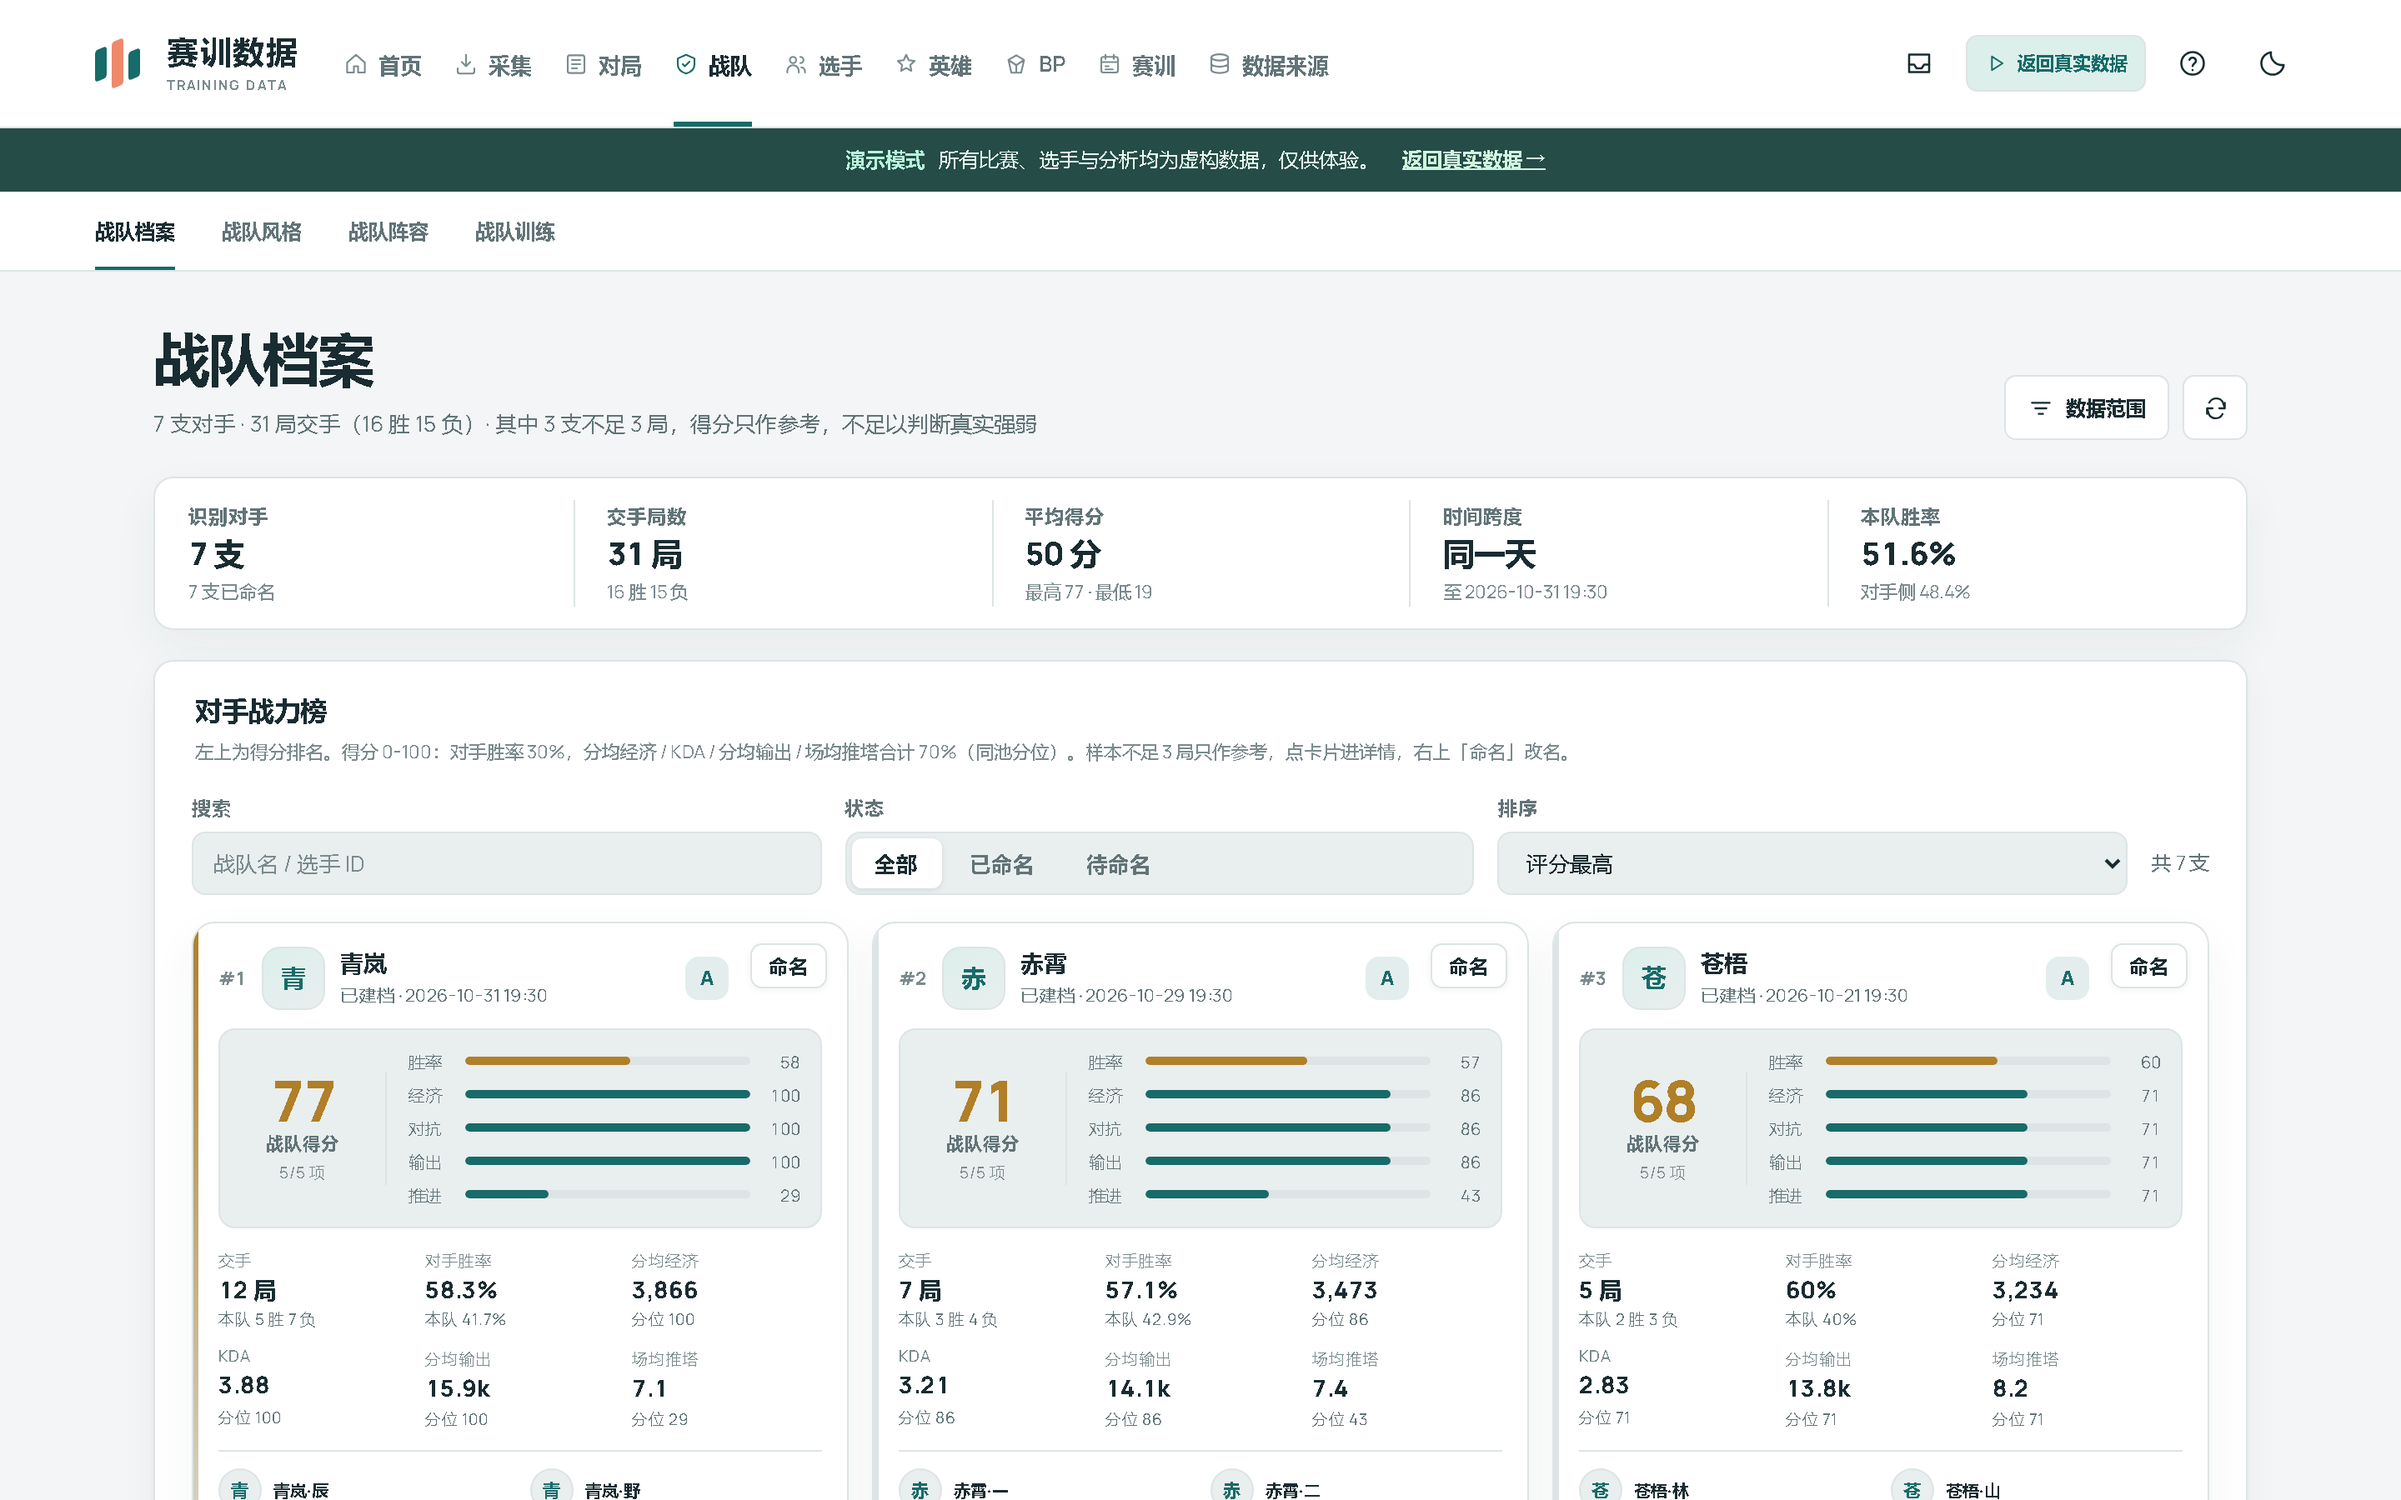
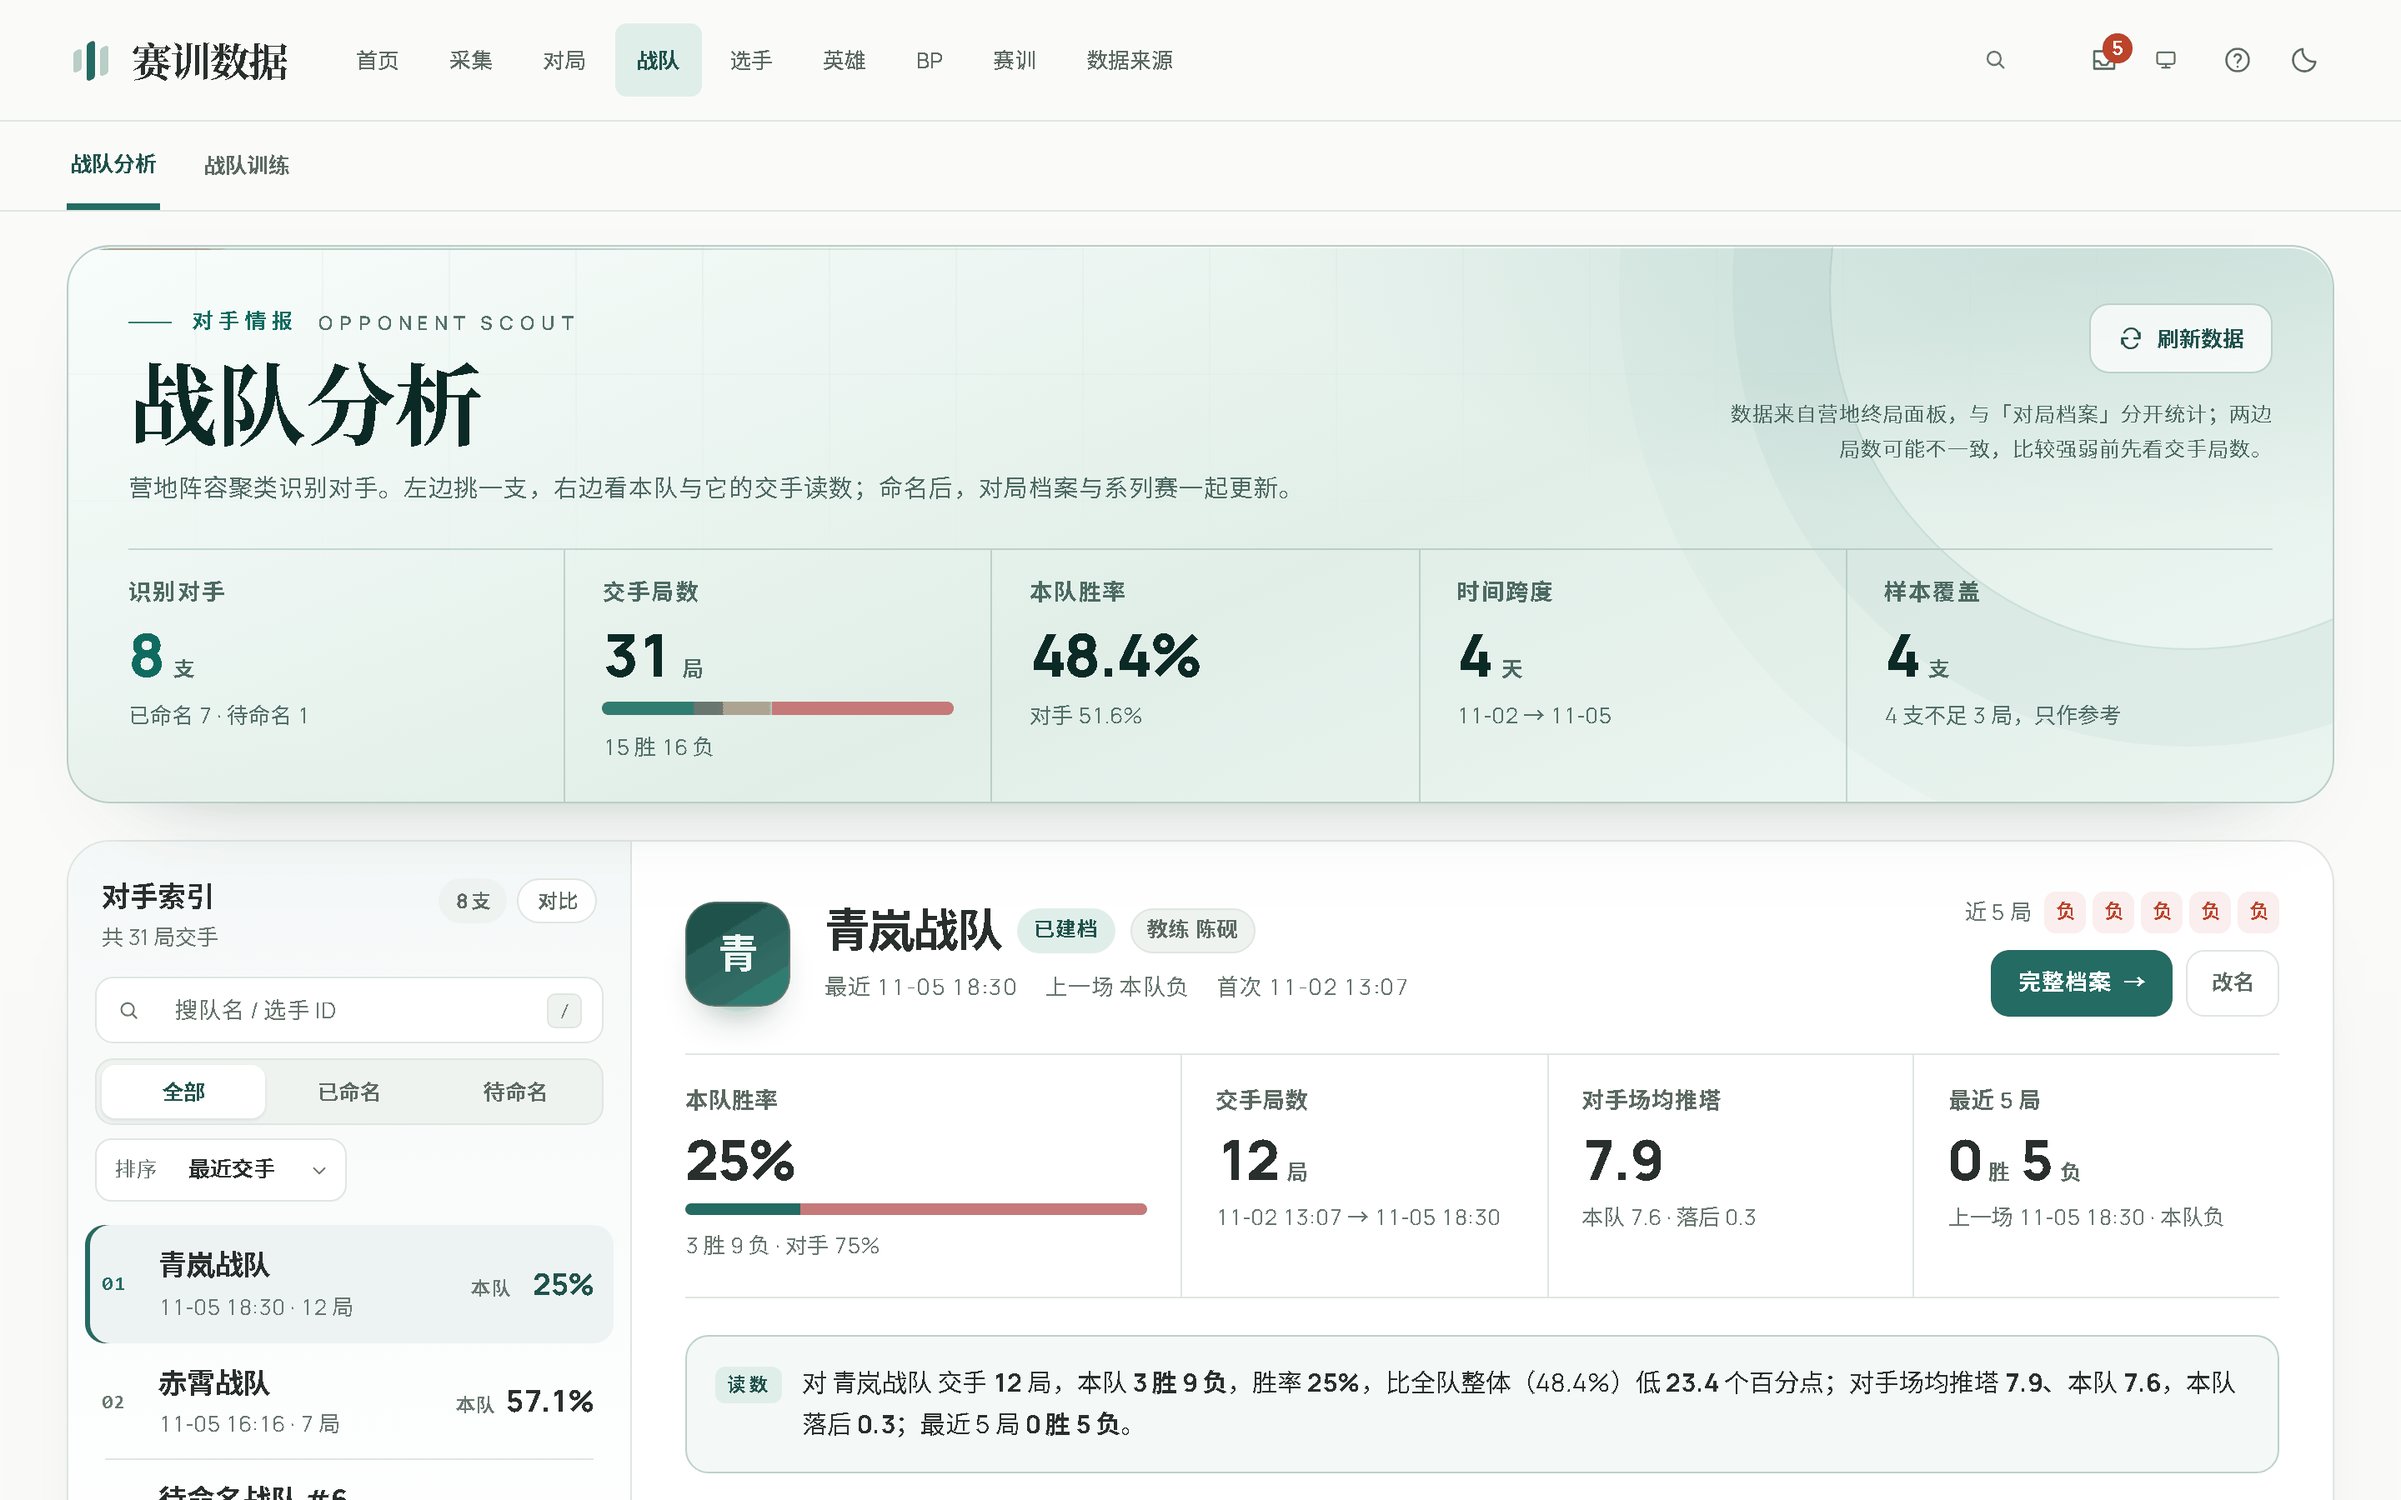
docs(readme): 按 2.0 界面重拍截图并对齐文案
- 首图换成对局档案（深色），alt / 图注同步
- 界面段：9 个一级板块、近 50 条路由；四张截图换成单局复盘 / 跨局分析 /
  战队分析 / BP 概览，图注按当前页面重写
- 功能地图：首页改赛训总览（一句话战况、8 项本期指标、周期切换）、采集五个
  页签、BP 七段工作台；首次使用步骤改用「营地同步」页签名
- capture_readme_shots.py 按 2.0 路由重写：自动关掉首次引导弹窗、新增单局复盘 /
  跨局分析、首图直接拍对局档案；跨局分析为空态时跳过，不覆盖已有好图
- build_readme_diagrams.py 不再从官网旧站图生成首图

diff --git a/scripts/build_readme_diagrams.py b/scripts/build_readme_diagrams.py
@@ -5,14 +5,16 @@
     python scripts/build_readme_diagrams.py              # 全部重建
     python scripts/build_readme_diagrams.py architecture # 只重建一张
 
-三类产物，都写到 ``docs/images/``，已随仓库入库——读者看 README 不需要任何工具：
+两类产物，都写到 ``docs/images/``，已随仓库入库——读者看 README 不需要任何工具：
 
 1. **结构图**：源码是 ``docs/diagrams/architecture.html``，用 Chromium 截
    ``.stage`` 元素（2 倍像素）。改字改色只改 HTML。
 2. **流程图**：源码是 ``docs/diagrams/*.mmd``（Mermaid），用 Chromium 加载
    mermaid 10 渲染后截图，再补圆角与描边。渲染需要联网拉一次 mermaid。
-3. **首屏截图**：把 ``website/src/assets/img/v3-hero.webp`` 做成圆角 + 投影的
-   透明 PNG，深浅主题下都不突兀。
+
+界面截图不在这里：``scripts/capture_readme_shots.py`` 直接拍运行中的工作台
+（含 README 首图 readme-hero.png），本模块只提供 ``frame_image()`` 给它套
+圆角 + 描边 + 投影。
 
 只有改了源文件才需要重跑。依赖：``pip install -r requirements-dev.txt``，
 ``python -m playwright install chromium``。
@@ -44,9 +46,10 @@ DIAGRAMS = {
 }
 
 # 截图成片：名字 → (源图, 产物名, 逻辑宽度)
-FRAMES = {
-    'hero': (SHOTS / 'v3-hero.webp', 'readme-hero.png', 1500),
-}
+# 首图 ``readme-hero.png`` 现在由 ``scripts/capture_readme_shots.py`` 直接拍
+# 工作台的对局档案（深色）再套同一套圆角/投影，不再从官网站图取，避免两边
+# 界面一改就不同步。
+FRAMES: dict[str, tuple[Path, str, int]] = {}
 
 PAGE = """<!doctype html><html><head><meta charset="utf-8">
 <style>html,body{{margin:0;background:#fff}}

diff --git a/README.md b/README.md
@@ -23,10 +23,10 @@
 </div>
 
 <p align="center">
-  <img src="docs/images/readme-hero.png" width="100%" alt="V3 工作台首屏：最近对局、对局总数、本队胜率、经济走势与英雄出场">
+  <img src="docs/images/readme-hero.png" width="100%" alt="V3 工作台 · 对局档案：43 场训练赛按训练日归档，比分、时长与阵容一眼可见">
 </p>
 
-<p align="center"><sub>V3 工作台 · 深色主题 · 界面内为合成演示数据</sub></p>
+<p align="center"><sub>V3 工作台 · 对局档案（深色主题） · 界面内为合成演示数据</sub></p>
 
 ---
 
@@ -54,9 +54,9 @@
 | :-- | :-- |
 | **单应用外壳** | 一级导航收成 首页 / 采集 / 对局 / 战队 / 选手 / 英雄 / BP / 赛训 / 数据来源；详情页统一为对局复盘、选手详情、战队详情、英雄详情，旧链接自动落到新位置，书签不失效 |
 | **采集一页** | 营地同步、截图 / 录屏 / 回放、缺失值审查并成采集页的页签；扫码授权、增量拉取、回放自动补挂、重复局清理在同一条链路里 |
-| **对局档案** | 顶部战况仪表 + 按日分组的双列对局卡；跨局分析、大场分析（BO3/5/7）、精选对局、版本对比、系列赛编组各自独立入口 |
+| **对局档案** | 顶部四块战况（当前对局 / 本队战绩 / 胜率环 / 近 10 场）+ 按训练日分组的对局卡；跨局分析、大场分析（BO3/5/7）、精选对局、版本对比、系列赛编组各自独立入口 |
 | **战队与选手** | 战队整页图形化（对手索引 + 档案 + BP / Ban 证据折叠）；选手主档（百段 / 巅峰赛分 / 千强 / 实力）与选手详情吸顶切片（范围 / 分路 / 英雄 / 对手 / 结果），整页联动并同步 URL |
-| **BP** | 新的 BP 工作台：英雄与组合数据库、对手 BP 情报、己方训练赛评估、己方英雄诊断 N01–N16、策略沙盘；训练赛统一 20 手（5+5 Ban），逐手事件接进单局复盘 |
+| **BP** | 新的 BP 工作台：英雄优先级、组合强度、战队如何破解、对手 BP 情报、类型与手序、体系与异动、赛前方案；训练赛统一 20 手（5+5 Ban），逐手事件接进单局复盘 |
 | **单局复盘** | 区块条、复制结论、热区快捷键；命中 / 联动组合按样本分级显示胜率，对位补英雄强度与 T1–T4 档位，热区补三路、河道、四个 BUFF 地标与 90 秒走位 |
 | **更新与性能** | 自动检查改为持续行为（30 分钟复查）+ 后台预下载；清单多镜像取最高版本；前端按路由加载，首屏少解析约 1.5 MB |
 | **交付** | 单入口、单端口、单实例；源码目录可生成无窗口快捷方式；安装包流水线与增量更新链路重跑通过 |
@@ -109,22 +109,22 @@
 
 ## 界面
 
-工作台按 8 个一级板块组织，共 30 余条一级 / 二级路由，按「看数据」和「录数据」分开：分析页只读，写操作集中在采集、校对、身份与工作区。
+工作台按 9 个一级板块组织（首页 + 采集 / 对局 / 战队 / 选手 / 英雄 / BP / 赛训 / 数据来源），近 50 条一级 / 二级路由，按「看数据」和「录数据」分开：分析页只读，写操作集中在采集、校对、身份与工作区。
 
 <details>
-<summary><b>展开：四张界面截图</b>（单局复盘 / 跨局分析 / 对局档案 / 精选对局，均为演示数据）</summary>
+<summary><b>展开：四张界面截图</b>（单局复盘 / 跨局分析 / 战队分析 / BP 概览，均为演示数据）</summary>
 
 <br>
 
 | 单局复盘 | 跨局分析 |
 | :-- | :-- |
 | <img src="docs/images/09-match.png" alt="单局复盘"> | <img src="docs/images/11-cross.png" alt="跨局分析"> |
-| 先给一句结论，再给证据：阶段经济差、资源与建筑、逐局金差走势。口径写在卡片底部。 | 多场 BO 一起看：概述 / 赛中 / 赛后 / 英雄和 BP 四段切换；单场 BO 从独立「大场分析」进入。 |
+| 先给一句结论，再给证据：比赛脉搏、阶段经济差、资源与建筑。口径写在卡片底部。 | 多场 BO 一起看：概述 / 赛中 / 赛后 / 英雄和 BP 四段切换；单场 BO 从独立「大场分析」进入。 |
 
-| 对局档案 | 精选对局 |
+| 战队分析 | BP 概览 |
 | :-- | :-- |
-| <img src="docs/images/03-matches.png" alt="对局档案"> | <img src="docs/images/08-depth.png" alt="精选对局"> |
-| 按日期、对手、版本、训练组筛；每行的比分、时长与阵容一眼可见。 | 精选卡：按复盘价值挑最值得回看的局（时间轴 + 理由）；下方附最短对局、最高击杀 / KDA / 分均经济的极值卡。 |
+| <img src="docs/images/05-team.png" alt="战队分析"> | <img src="docs/images/07-topics.png" alt="BP 概览"> |
+| 营地面板聚类识别对手，左边挑一支、右边看交手读数；对手打法归位在战队详情里，不再单开一页。 | 英雄优先级、组合强度、战队如何破解、对手 BP 情报、类型与手序、体系与异动、赛前方案七段，可切 KPL 赛事或自有训练赛。 |
 
 </details>
 
@@ -163,7 +163,7 @@
 </p>
 
 - **营地路径（窗口内主路径）**：教练号扫码授权后，按选手增量拉取十人面板 `battledetail`。BP、十人 KDA / 经济 / 输出 / 承伤 / 参团，以及补刀、野怪经济、治疗、控制等扩展指标直接进草稿，不经过 OCR。必须关联本局营地链接。
-- **截图 / 录屏路径（OCR 新录入）**：王者营地只保留约一个月对局详情，更早的局没有通道可挂——在截图 OCR / 录屏 OCR 页直接从一组七页截图或一段录屏报告**新建一局并录入**。七页截图齐全，或一段十人阵容完整的录屏报告，任一即可建档、审核、保存；不要求营地链接。
+- **截图 / 录屏路径（OCR 新录入）**：王者营地只保留约一个月对局详情，更早的局没有通道可挂——在截图 OCR / 录屏页直接从一组七页截图或一段录屏报告**新建一局并录入**。七页截图齐全，或一段十人阵容完整的录屏报告，任一即可建档、审核、保存；不要求营地链接。
 - **补采**是另一件事：通道已经存在（通常是营地同步建的），只是缺截图 / 录屏素材，在同一个页面把素材补到已有对局即可。表格与回放文件始终选填。
 
 两条路径汇合在同一份草稿上，审核通过后写入单局数据包 `kpl-match-data-v1`；分析页只读它，不再回头改通道。
@@ -223,13 +223,13 @@
 
 | 模块 | 入口 | 能做什么 |
 | :-- | :-- | :-- |
-| 首页 | `#overview` | 赛训周期简报：最近一局、胜负与时长、经济走势、英雄出场；右上角切换浅色 / 深色 |
-| 采集 | `#ingest` | 营地同步与增量拉取、截图 / 录屏 / 回放、缺失值审查、老局新录入，都是同页页签 |
+| 首页 | `#overview` | 赛训周期简报：一句话战况、8 项本期指标、重点发现、最值得复盘的比赛、下一场约训与数据覆盖；周期在今日 / 本周 / 本月 / 近 5 场 / 近 3 天之间切换，右上角切换浅色 / 深色 |
+| 采集 | `#ingest` | 营地同步（增量拉取）、截图 OCR、录屏、回放、对局审查五个页签；老局新录入与补采也在这一页 |
 | 对局 | `#matches` | 对局档案、跨局分析、大场分析、精选对局、版本对比、系列赛编组 |
 | 战队 | `#teams` | 战队分析（对手索引 + 档案）、战队训练 |
 | 选手 | `#players` | 选手档案、选手对比；详情页带切片条与个人主页数据 |
 | 英雄 | `#heroes` | 英雄榜、英雄对比、英雄组合 |
-| BP | `#bp` | BP 概览（英雄与组合数据库、对手 BP 情报、己方训练赛评估、己方英雄诊断、策略沙盘）、教练档案 |
+| BP | `#bp` | BP 工作台：英雄优先级、组合强度、战队如何破解、对手 BP 情报、类型与手序、体系与异动、赛前方案七段；另设教练档案 |
 | 赛训 | `#setup` | 比赛与训练、数据准备（身份对照 / 建档 / 对手归属 / 待确认）、复盘与报告 |
 | 数据来源 | `#sources` | 营地、官方回放、表格、录屏各自的库存与覆盖情况 |
 
@@ -337,12 +337,12 @@ python scripts/seed_demo_data.py   # 另一个终端：灌入 12 场合成演示
 
 ### 第一次用，按这个顺序走
 
-1. **采集 → 营地连接**：教练号扫码授权，勾选本队选手，拉取最近的对局。
+1. **采集 → 营地同步**：教练号扫码授权，勾选本队选手，拉取最近的对局。
 2. **采集 → 对局审查**：逐项核对缺失值与冲突，补 BP 手序，审核通过后保存。
 3. **对局 → 对局档案**：点开刚保存的那局，先看结论卡，再看阶段经济与掉点。
 4. **选手 / 英雄**：按位置或英雄看趋势，用「对比」把两名选手并排摆。
 
-营地拿不到的老对局（超过一个月、选手隐藏战绩等），走「截图 OCR / 录屏 OCR → 新建一局并录入」，路径同上，只是识别改在本机做、不要求营地链接。已有对局缺素材时用「补采到已有对局」，两者不是一回事。
+营地拿不到的老对局（超过一个月、选手隐藏战绩等），走「截图 OCR / 录屏 → 新建一局并录入」，路径同上，只是识别改在本机做、不要求营地链接。已有对局缺素材时用「补采到已有对局」，两者不是一回事。
 
 ### 可选组件
 
